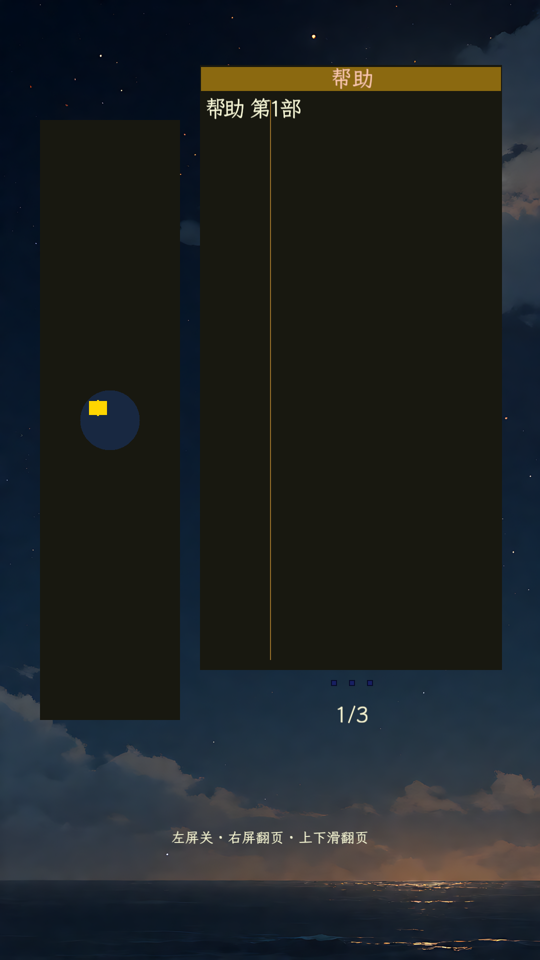
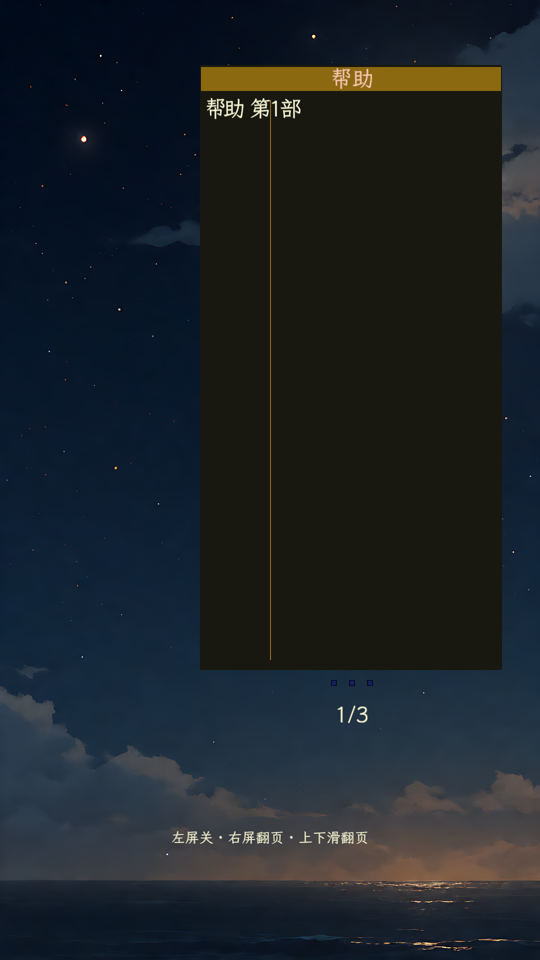
S18.22 verified: 观感收口（角色名中文化 + vs 海战底 + 主地图海图底 + message 空面板清理）

Changed region(s): [[0.0593, 0.3438, 0.3556, 0.75], [0.237, 0.2188, 0.3259, 0.2812], [0.1481, 0.125, 0.1778, 0.1562]]

diff --git a/docs/process/11_bevy_migration.md b/docs/process/11_bevy_migration.md
@@ -99,6 +99,7 @@
 | S18.8a | 发货壳切 Bevy（删 ti-app 的 macroquad native/wasm 壳 + gate wasm 项指 ti-engine 的 Bevy wasm） | **✅ verified 2026-10-21**（删 `treasure_native.rs`/`treasure_wasm.rs` + 对应 `[[bin]]`；ti-app 的 `macroquad` 降为 android 壳专用 optional 依赖、`macroquad-audio` feature 删除（alsa 链在根 workspace 侧消失 → S18.8c 并回的前提成立）；macroquad-only 死代码 `ttf_font.rs` + 其单测删除；门禁 wasm 项改指 `treasure-bevy-wasm`（release 构建 + clippy `-D warnings`，交付壳首次纳入 lint → 顺带清 5 处 Bevy 壳 wasm 分支死代码/告警）；`build_wasm.ps1`/`smoke.ps1`/`playbook.ps1` + release/parity/AGENTS/gamebook/tutorial 同步；顺带修复**从未生效**的门禁检查（doccheck2 分卷条数对账，EXP-108：判据 `.md](` 永不成立 → 恒不触发）+ 补齐经验库索引漂移（code +5 / tools +1 / 缺 6 行）；`evidence/S18.8a.log`） |
 | S18.20 | UI 贴图版式 + 资产管线（`image` 原语 + 清单驱动生图 + index 屏按设计图重做） | **✅ verified 2026-10-21**（渲染层加第 7 种通用原语 `image`：CPU 侧读文件解码混合 / Bevy 侧资产服务器，资产路径口径 = 相对仓库根；资产管线 `scripts/ui_assets.py` + 清单 `assets/ui_manifest.json`（单一事实源，角色预设 background/medallion/board/portrait）+ 预览闭环 `scripts/ui_preview.ps1`；index 屏按设计图重做（AI 夜空背景 + 雕花木牌 + 6 枚金纹章 + 金色标签）；门禁闭集 6→7 + 资产存在/登记校验 + native 交付壳补 clippy；修 PNG 解码 RGB 通道错位（`png::Transformations::ALPHA`）与 `--shot` 空帧竞态；`evidence/S18.20.log`） |
 | S18.21 | 七屏贴图版式铺满（AI 背景 + 立绘/海图资产 + 旧占位家具退役） | **✅ verified 2026-10-21**（7 屏统一 AI 背景贴图；select_role 英雄区 = 5 张角色立绘贴图（黑块消除 + 叠字退役）；select_map 拼贴区 = 3 张羊皮海图卡；main_map 背景 = 俯视夜海（岛读作海面之岛）；旧占位家具退役（星空点/月亮/海带/提示横线/外木框/字符串占位原语）；资产管线扩角色（portrait/mapcard）+ `add --prompt` 自定义提示词；17 个资产入清单；`evidence/S18.21.log`） |
+| S18.22 | 观感收口：角色名中文化 + vs 海战底 + 主地图海图底 + message 空面板清理 | **✅ verified 2026-10-21**（角色名 i18n = 潘达/泰奇/基德/德雷克/凯瑟琳；vs 竞技区 = 海战底图；main_map 岛下 = 羊皮海图底图；message 删空黑面板 + 加金线；2 个新资产入清单；`evidence/S18.22.log`） |
 | S18.8 | 收口：macroquad 后端退役（feature 删除 + 依赖树断言）+ 性能目标（native 60fps / wasm 30–60fps）+ release.md | 全 gate + 发布 |
 
 ## 6. 风险与缓解

diff --git a/docs/release.md b/docs/release.md
@@ -186,7 +186,7 @@ cargo run -q -p ti-app --features headless --bin treasure-headless -- --script t
 ## 验收
 
 - `scripts/gate.ps1` 全项绿（门禁项数与口径**单一事实源**见 `docs/parity.md` §代码质量门禁；doccheck / doccheck2 / 台账三方对账 / 业务闭环 / 模块并行 / 飞轮开轮必读 / 视觉回归等独立门禁项已陆续并入，逐项编号见 parity.md，不再在此硬编码）
-- `plan/ledger.yaml` 169 任务（155 verified；台账计数随 S8–S18 演进，`doccheck` 断言锁定防漂移）（台账实时值，`cargo run -q -p ti-tools --bin ledger` 实测）
+- `plan/ledger.yaml` 170 任务（156 verified；台账计数随 S8–S18 演进，`doccheck` 断言锁定防漂移）（台账实时值，`cargo run -q -p ti-tools --bin ledger` 实测）
 - S5.1 全链路 7 项断言（`tests/game_app_flow.rs`）+ S5.2 headless 全流程 16/16 步（P3-3）
   + S5.3 渲染对齐 5 项（P4-1，`tests/render_parity.rs`）全绿
 - 产物 sha256 记录于 `evidence/S4.4.log` 与 `evidence/S5.4.log`
